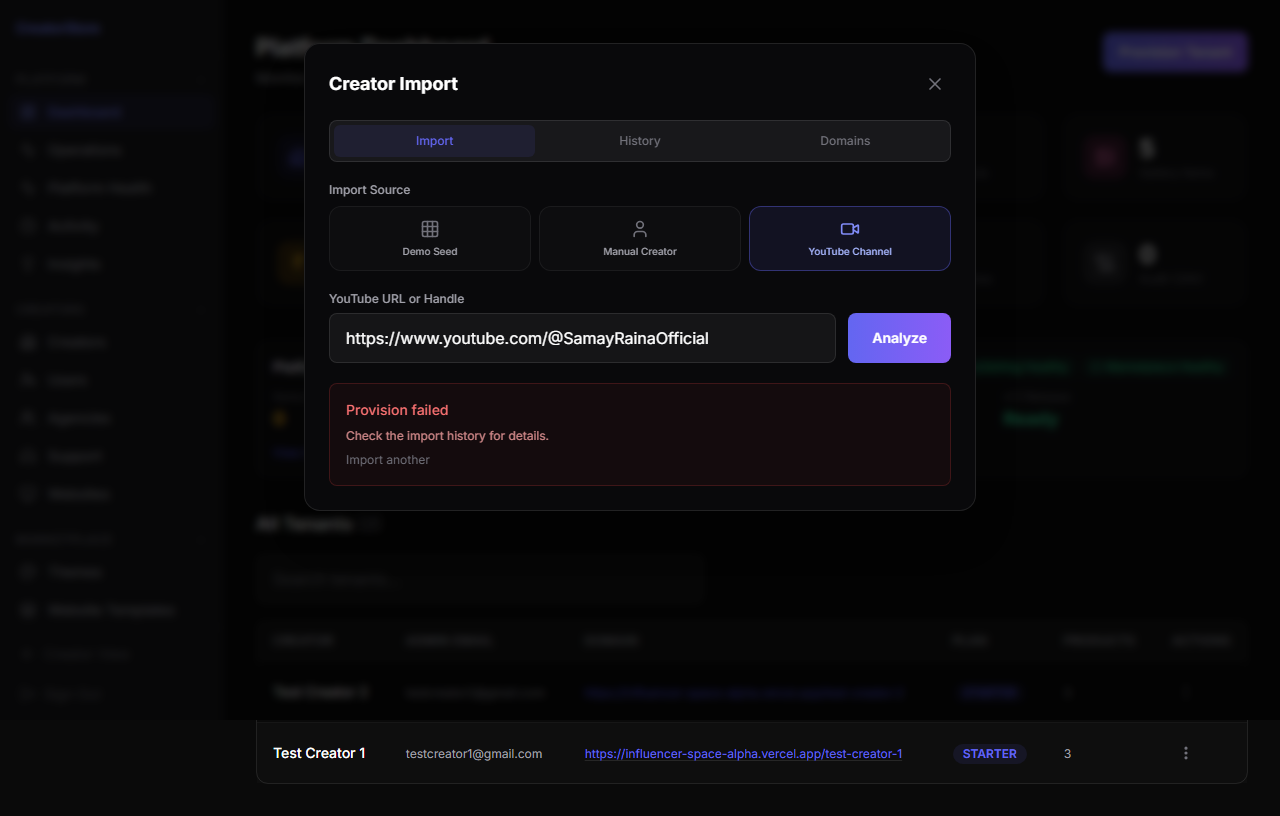
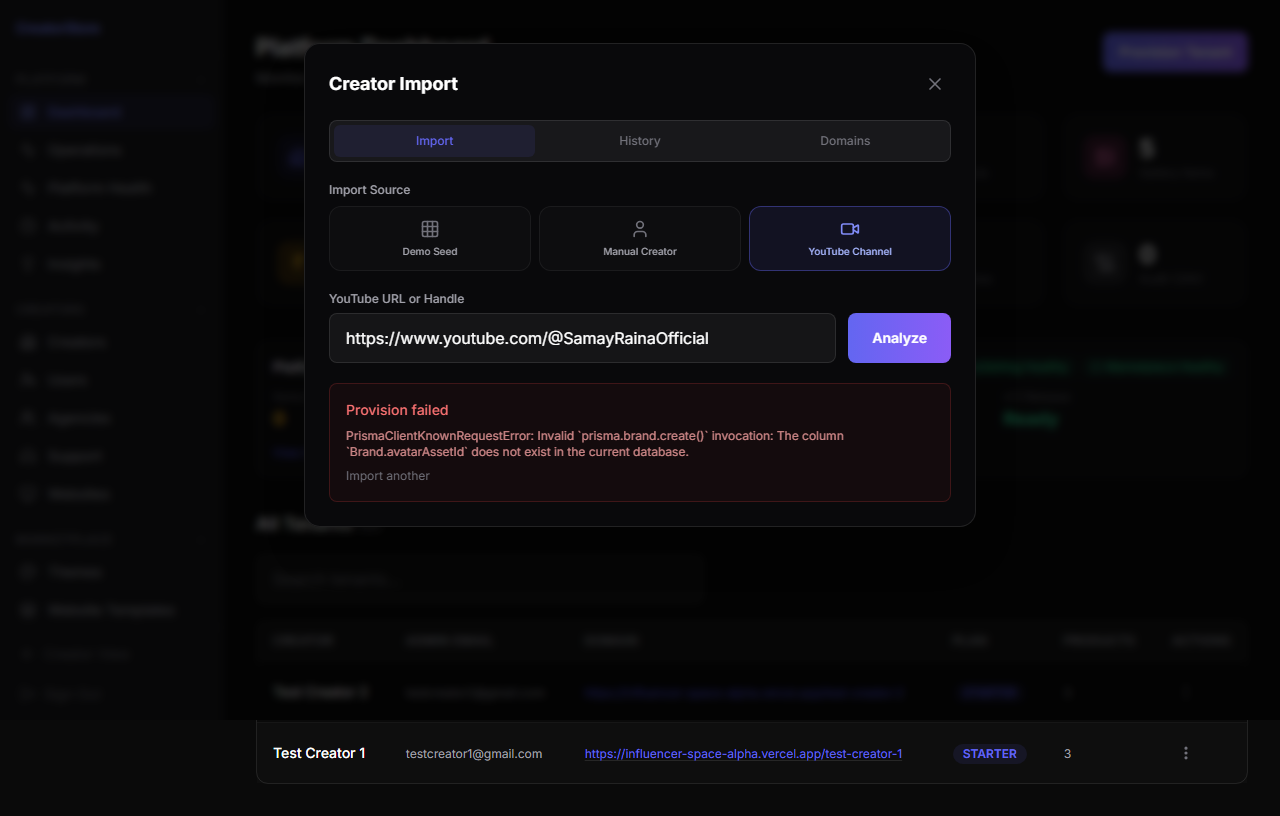
Fix: Add missing Brand.avatarAssetId migration — fixes provisioning failure

Changed region(s): [[0.25, 0.5208, 0.6562, 0.6127]]

diff --git a/tests/e2e/release/provisioning-diagnostic.spec.ts b/tests/e2e/release/provisioning-diagnostic.spec.ts
@@ -80,9 +80,13 @@ test.describe("Provisioning Pipeline Diagnostic", () => {
         if (urlMatch) log("7-storefront-url", urlMatch[0]);
       } else if (bodyText.includes("fail")) {
         log("7-provision-result", "failed");
-        const errMatch = bodyText.match(/Provision[^.]*\./);
-        if (errMatch) log("7-error", errMatch[0]);
-        else log("7-error", "Provision failed (no detail)");
+        const errIndex = bodyText.indexOf("PrismaClientKnownRequestError");
+        if (errIndex >= 0) {
+          const errDetail = bodyText.substring(errIndex, errIndex + 300);
+          log("7-error-detail", errDetail);
+        } else {
+          log("7-error", "Provision failed (no Prisma detail)");
+        }
       } else {
         log("7-provision-result", "unknown");
         log("7-body-preview", bodyText.substring(0, 500));
